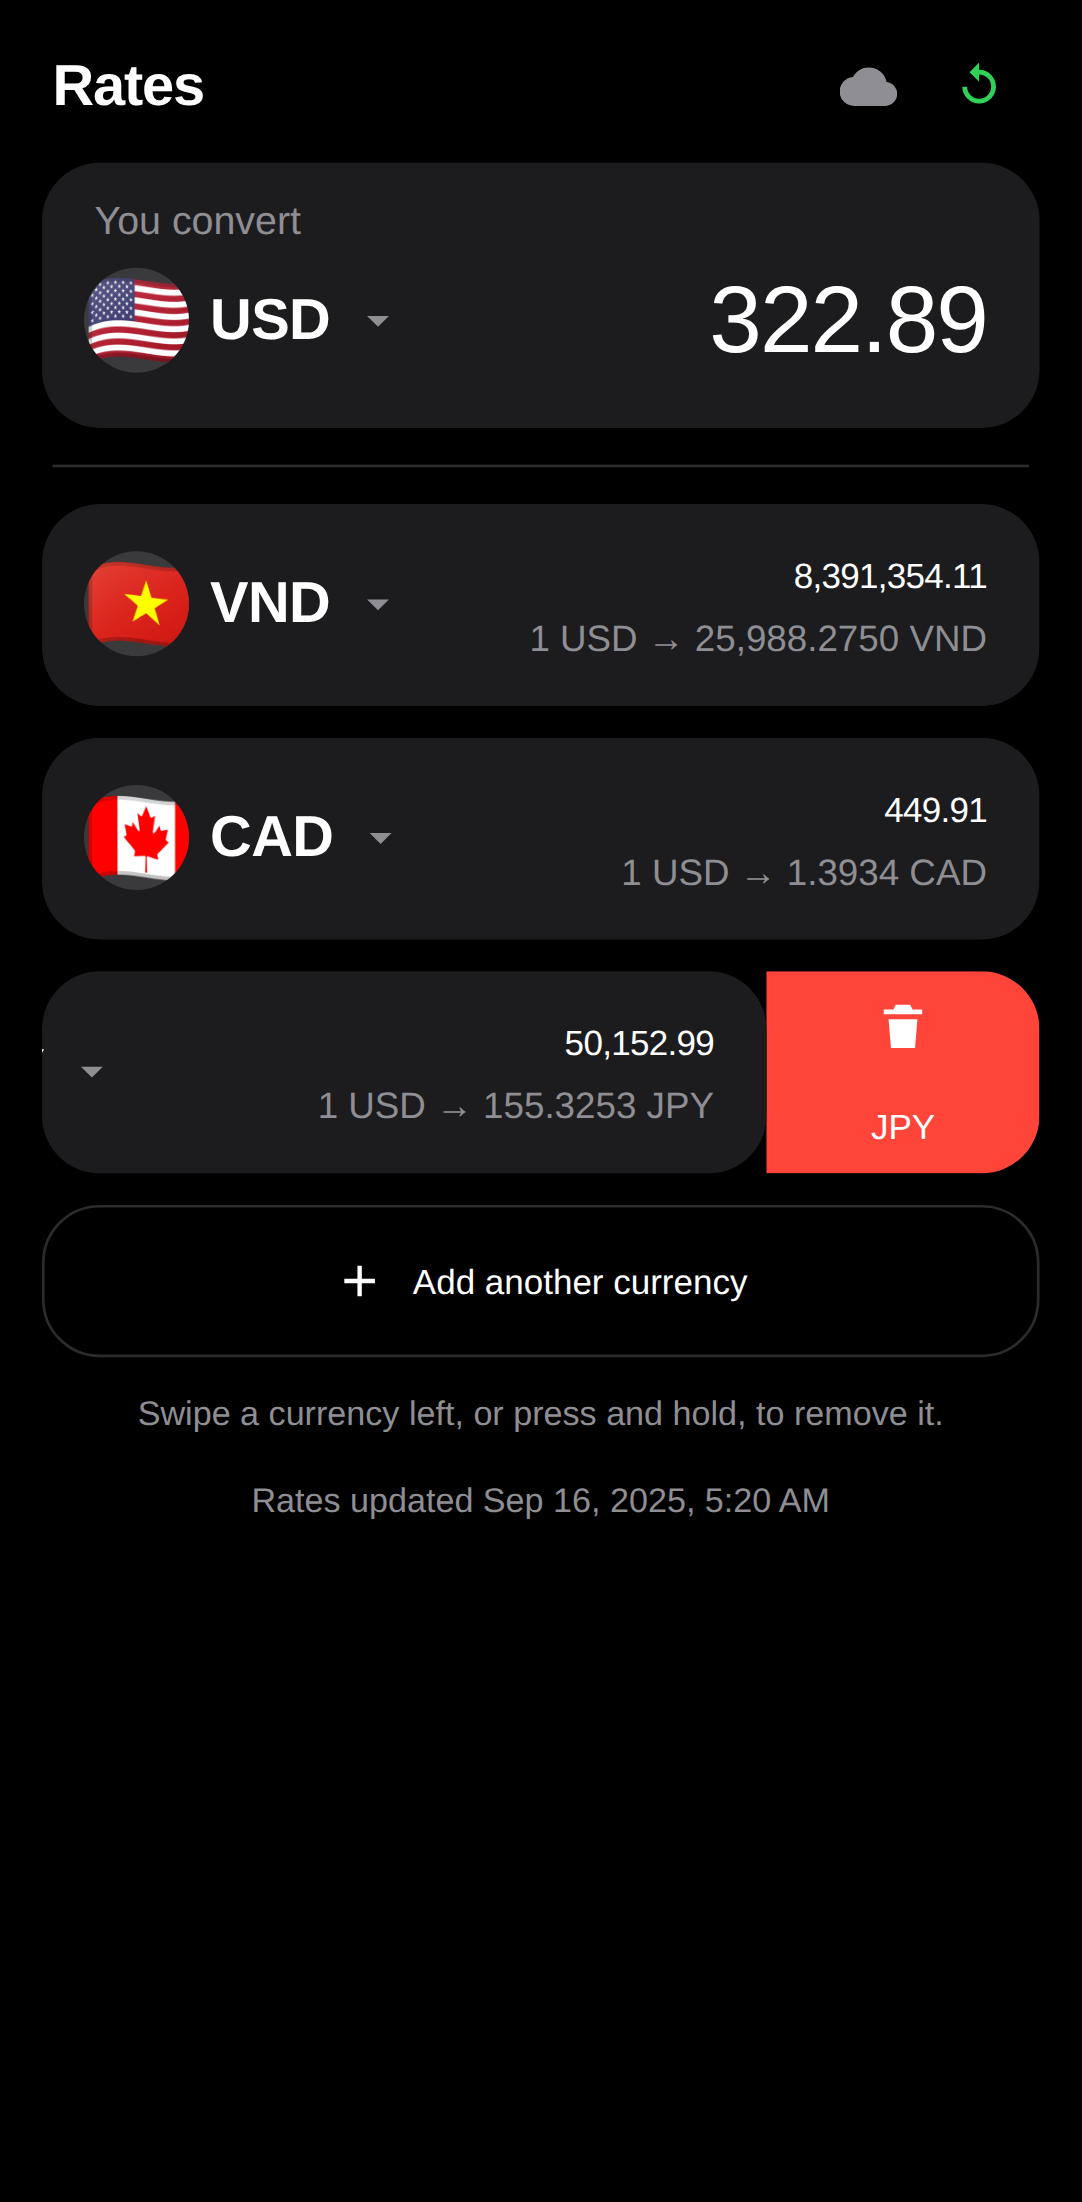
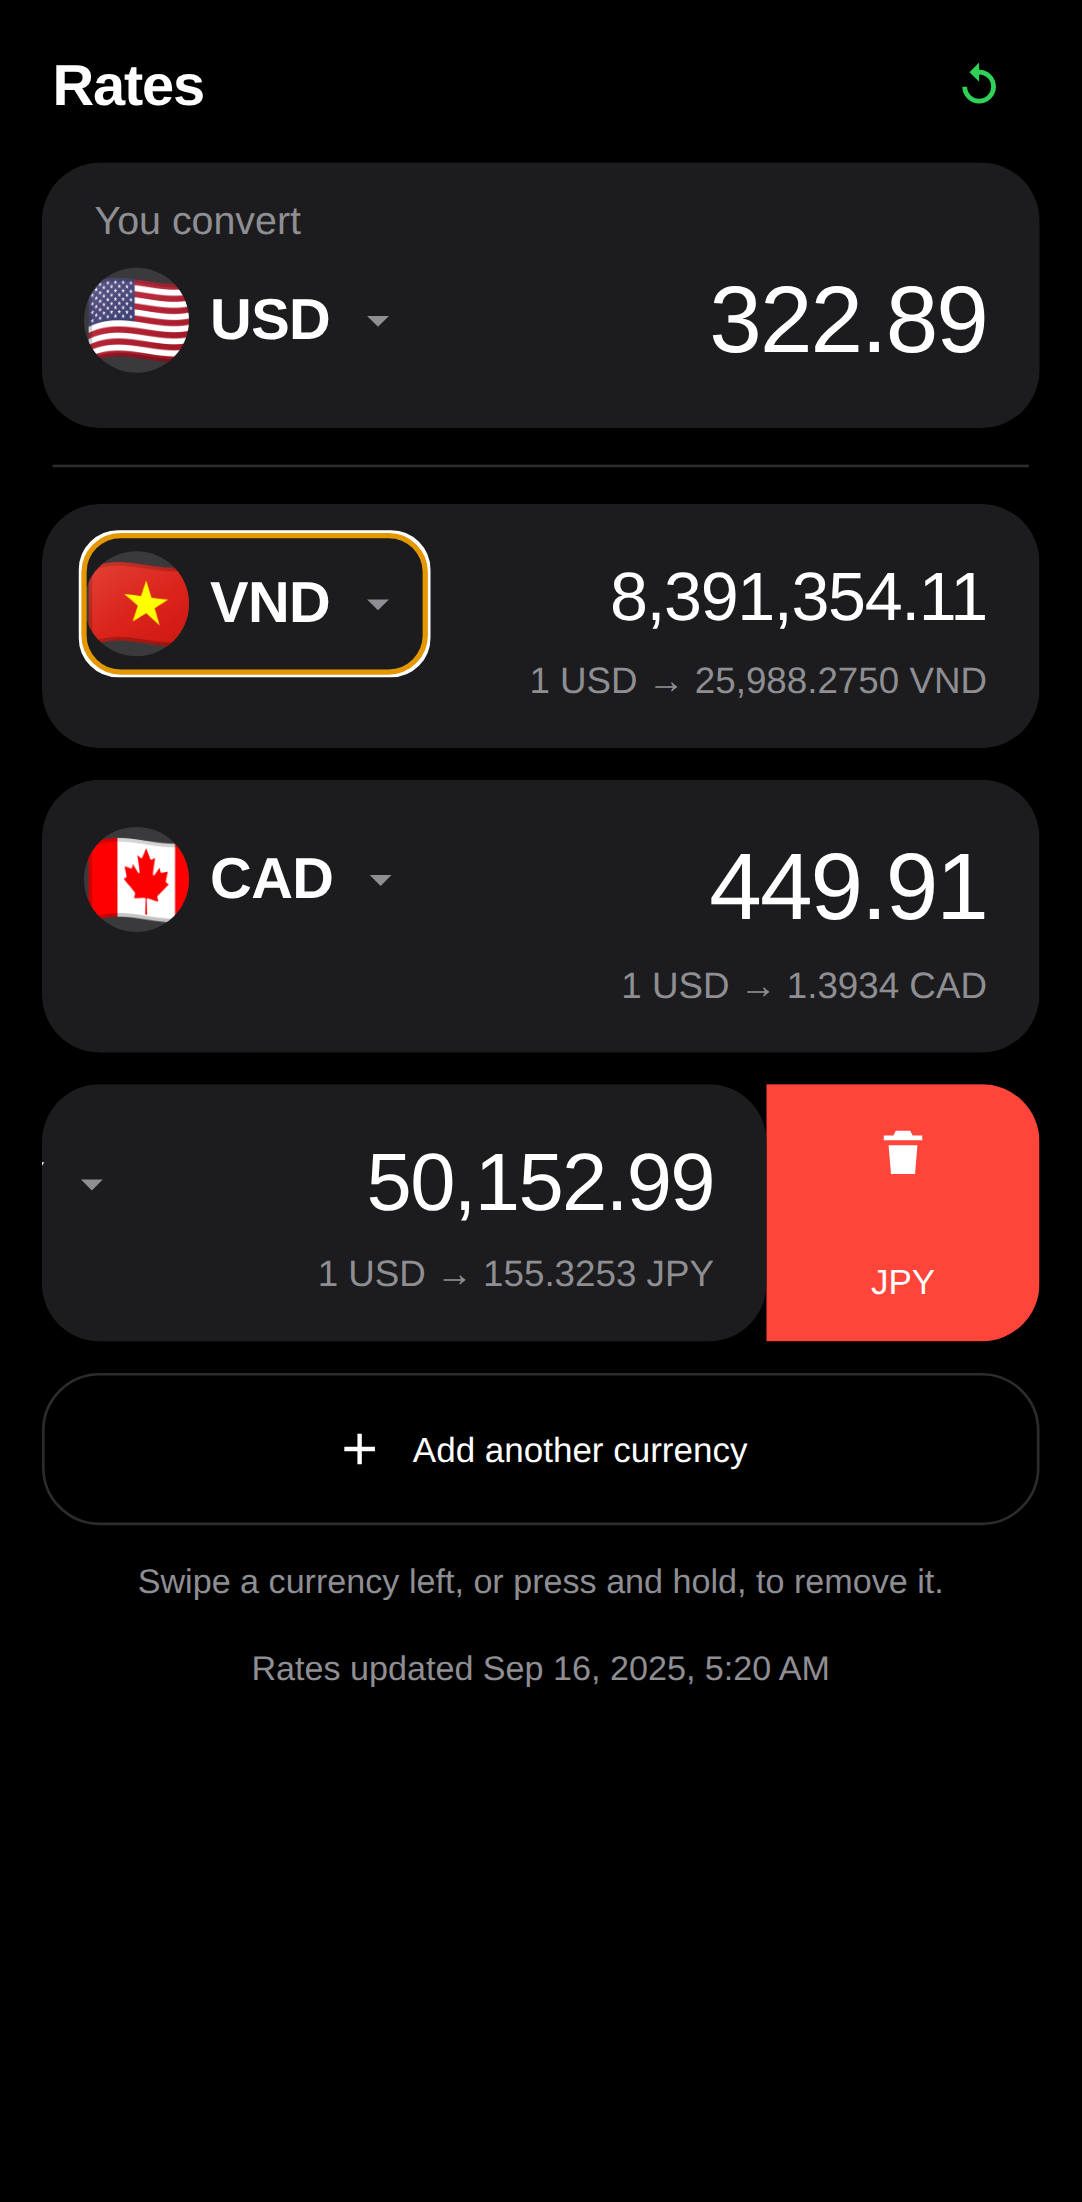
Show every amount at the large size
The base amount was 36px while the currency rows were 30px. They are all 36px
now.

A long number would overflow its row at that size, so each amount steps down
by how many characters it has: 36px up to 8, then 31, 26 and 22. A VND amount
lands at 26px and still fits, while everyday figures stay big.

This also fixes swipe-to-remove when the swipe starts on the number. Pressing
there let the browser begin a caret drag, which seized the pointer and fired
pointercancel, killing the gesture. pointerdown now suppresses that on an
unfocused amount and a plain tap focuses the field itself. The bigger font
exposed this by moving the row's centre onto the input; the bug was already
reachable by swiping from the number.

Verified in headless Chromium: 40 checks pass, up from 34. New ones cover the
font sizes, that no amount overflows its row, and that tapping an amount still
focuses it.

Claude-Session: https://claude.ai/code/session_01SxJZiNMqDx6pCw1Jj2pNHV

diff --git a/app.js b/app.js
@@ -149,6 +149,19 @@ function formatRate(rate) {
   return new Intl.NumberFormat(undefined, { minimumFractionDigits: decimals, maximumFractionDigits: decimals }).format(rate);
 }
 
+/* Every amount starts big. A long number (VND runs to eight figures) would
+   overflow the row, so step the size down by how many characters it has. */
+function fitAmount(input) {
+  const length = (input.value || '').length;
+  const size = length <= 8 ? 36 : length <= 11 ? 31 : length <= 14 ? 26 : 22;
+  input.style.fontSize = `${size}px`;
+}
+
+function fitAllAmounts() {
+  fitAmount(el.baseAmount);
+  el.list.querySelectorAll('.amount-input').forEach(fitAmount);
+}
+
 function parseAmount(text) {
   if (typeof text !== 'string') return NaN;
   let cleaned = text.replace(/[^\d.,-]/g, '');
@@ -223,6 +236,7 @@ function render() {
   el.hint.hidden = state.list.length === 0 || localStorage.getItem(HINT_KEY) === '1';
   el.refreshBtn.classList.toggle('spin', fetching);
   openRow = null;
+  fitAllAmounts();
   renderStatus();
 }
 
@@ -286,11 +300,15 @@ function handleAmountInput(inputEl, code) {
 }
 
 function updateOtherAmounts(skipEl) {
-  if (el.baseAmount !== skipEl) el.baseAmount.value = formatAmount(state.amount);
+  if (el.baseAmount !== skipEl) {
+    el.baseAmount.value = formatAmount(state.amount);
+    fitAmount(el.baseAmount);
+  }
   el.list.querySelectorAll('.amount-input').forEach(input => {
     if (input === skipEl) return;
     const rate = rateFor(input.dataset.code);
     input.value = rate === null ? '—' : formatAmount(state.amount * rate);
+    fitAmount(input);
   });
 }
 
@@ -299,13 +317,18 @@ function wireAmountInput(inputEl, getCode) {
     const code = getCode();
     const rate = code === state.base ? 1 : rateFor(code);
     inputEl.value = rate === null ? '' : rawValue(state.amount * rate);
+    fitAmount(inputEl);
     inputEl.select();
   });
-  inputEl.addEventListener('input', () => handleAmountInput(inputEl, getCode()));
+  inputEl.addEventListener('input', () => {
+    fitAmount(inputEl);
+    handleAmountInput(inputEl, getCode());
+  });
   inputEl.addEventListener('blur', () => {
     const code = getCode();
     const rate = code === state.base ? 1 : rateFor(code);
     inputEl.value = rate === null ? '—' : formatAmount(state.amount * rate);
+    fitAmount(inputEl);
   });
   inputEl.addEventListener('keydown', e => { if (e.key === 'Enter') inputEl.blur(); });
 }
@@ -348,11 +371,11 @@ function closeOpenRow() {
   openRow = null;
 }
 
-function endSwipe() {
+function endSwipe(event) {
   clearTimeout(longPressTimer);
   longPressTimer = null;
   if (!swipe) return;
-  const { row, dragging, dx } = swipe;
+  const { row, dragging, dx, input } = swipe;
   const surface = row.querySelector('.row-surface');
   row.classList.remove('dragging');
   surface.style.transform = '';
@@ -362,6 +385,9 @@ function endSwipe() {
     if (dx <= -SWIPE_OPEN) { row.classList.add('open'); openRow = row; }
   }
   swipe = null;
+  // pointerdown suppressed the browser's own focus, so a plain tap on an
+  // amount puts the caret there itself.
+  if (!dragging && input && event && event.type === 'pointerup' && !openRow) input.focus();
 }
 
 el.list.addEventListener('pointerdown', e => {
@@ -369,10 +395,15 @@ el.list.addEventListener('pointerdown', e => {
   if (!row || e.target.closest('.row-delete')) return;
   if (openRow && openRow !== row) closeOpenRow();
 
-  swipe = { row, startX: e.clientX, startY: e.clientY, dx: 0, dragging: false, pointerId: e.pointerId };
+  // Starting a drag on an unfocused amount makes the browser seize the pointer
+  // for a caret drag and fire pointercancel, which would kill the swipe.
+  const input = e.target.closest('.amount-input');
+  if (input && document.activeElement !== input) e.preventDefault();
+
+  swipe = { row, startX: e.clientX, startY: e.clientY, dx: 0, dragging: false, pointerId: e.pointerId, input };
 
   // Press and hold anywhere but the amount field (where holding means select/paste).
-  if (e.target.closest('.amount-input')) return;
+  if (input) return;
   longPressTimer = setTimeout(() => {
     longPressTimer = null;
     if (!swipe || swipe.dragging) return;

diff --git a/styles.css b/styles.css
@@ -158,14 +158,13 @@ body {
   background: none;
   border: 0;
   color: var(--text);
-  font: 700 30px/1.15 inherit;
+  font: 700 36px/1.15 inherit;
   letter-spacing: -0.02em;
   text-align: right;
   padding: 2px 0;
   appearance: none;
 }
 .amount-wrap .amount-input { display: block; }
-.base-card .amount-input { font-size: 36px; }
 .amount-input:focus { outline: none; color: var(--accent); }
 .amount-input::-webkit-outer-spin-button,
 .amount-input::-webkit-inner-spin-button { appearance: none; margin: 0; }
